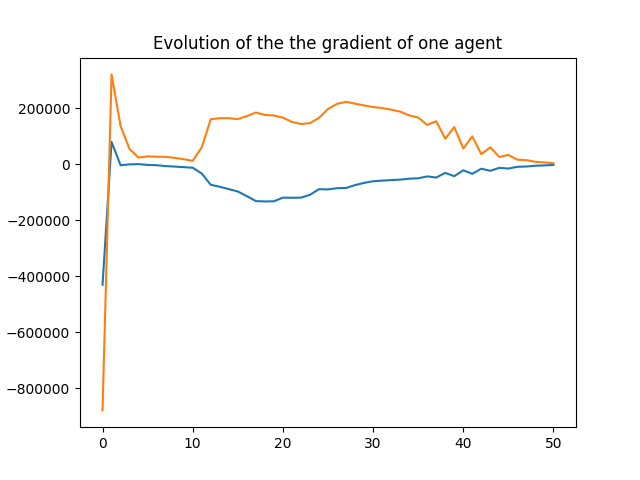
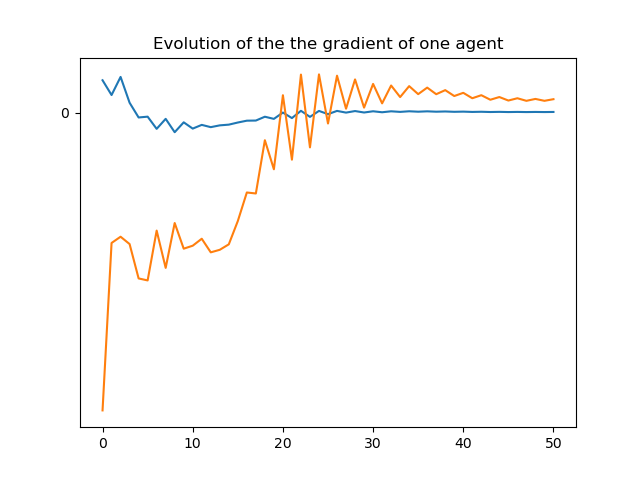
last commits

diff --git a/Task1/Causal Gradient Tracking BCEwithLogits.py b/Task1/Causal Gradient Tracking BCEwithLogits.py
@@ -230,7 +230,7 @@ for tt in range(MAXITERS):  # For each iteration
 	if (tt % 1) == 0:
 		print(f"Iteration {tt:3d} - loss: {np.sum(J[tt]):4.3f}", end="\n")
 
-print(np.sum(np.sum(Delta_u, axis=-1), axis=-1)[:-1, 0, :])
+print(np.mean(np.mean(Delta_u, axis=-1), axis=-1)[:-1, 0, :])
 
 # Plot evolution of cost function
 fig = plt.figure()
@@ -244,19 +244,20 @@ fig.savefig('./Task1/imgs/BCE/Cost error.png')
 
 # Plot single cost of each agent over time
 fig = plt.figure()
-plt.plot(np.arange(MAXITERS), J)
+plt.semilogy(np.arange(MAXITERS), J)
 plt.title(r"Evolution of the cost error (single agents)")
 plt.show()
 fig.savefig('./Task1/imgs/BCE/Cost error (single agents).png')
 
-# Plot the gradient onf one agent over time for each layer
+# Plot the gradient of one agent over time for each layer
 fig = plt.figure()
-plt.plot(np.arange(MAXITERS), np.sum(np.sum(Delta_u, axis=-1), axis=-1)[:-1, 0, :])
+plt.plot(np.arange(MAXITERS), np.mean(np.mean(Delta_u, axis=-1), axis=-1)[:-1, 0, :])
+plt.yscale("symlog", lintreshy=20)
 plt.title(r"Evolution of the the gradient of one agent")
 plt.show()
 fig.savefig('./Task1/imgs/BCE/Evolution of the gradient of one agent.png')
 
-# Plot consenus weight for each agent
+# Plot consensus weight for each agent
 w = 10
 h = 10
 fig = plt.figure(figsize=(16, 8))

diff --git a/Task2/dt_formation_maneuvering_clv.py b/Task2/dt_formation_maneuvering_clv.py
@@ -9,7 +9,7 @@ from animations import formation as animation
 ANIMATION = True
 np.random.seed(5)
 
-filename = "formation_D" # Filename with the formation to obtain
+filename = "Task2/formation_D" # Filename with the formation to obtain
 NN = 8 # number of agents
 n_leaders = 2 # number of leaders
 d = 2 # space dimension
